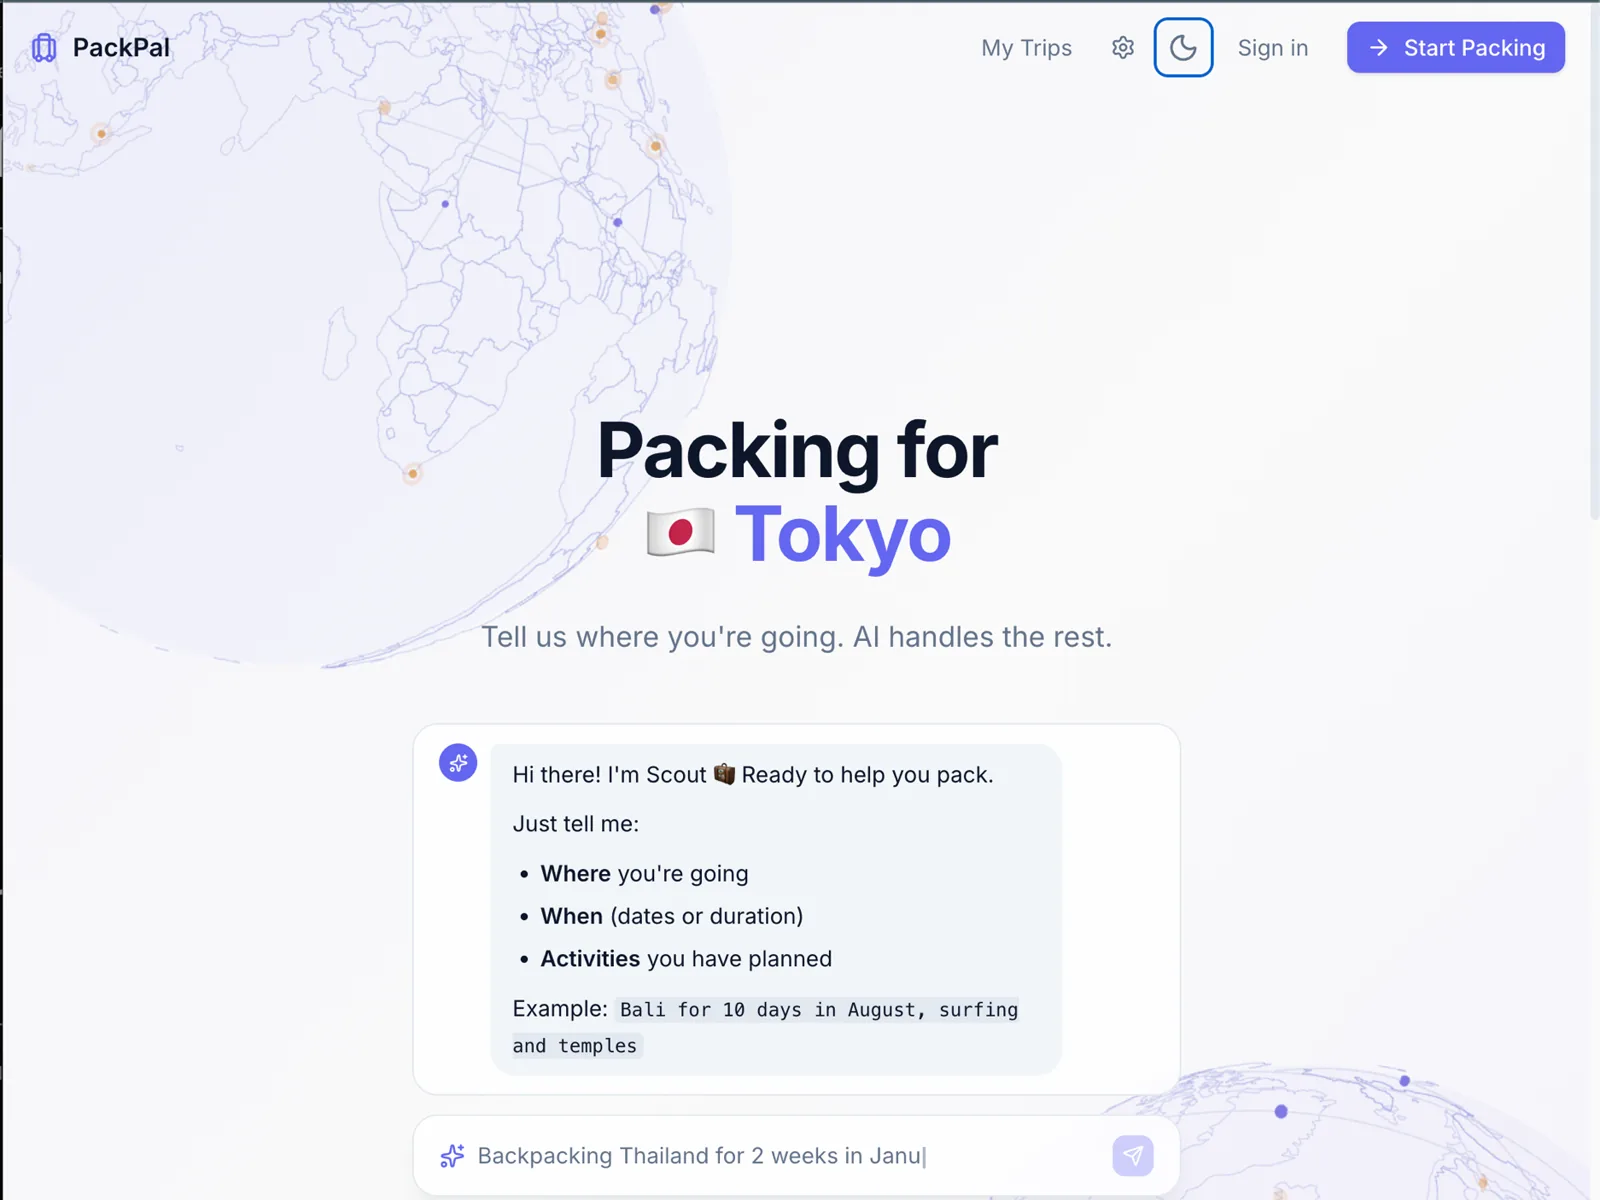
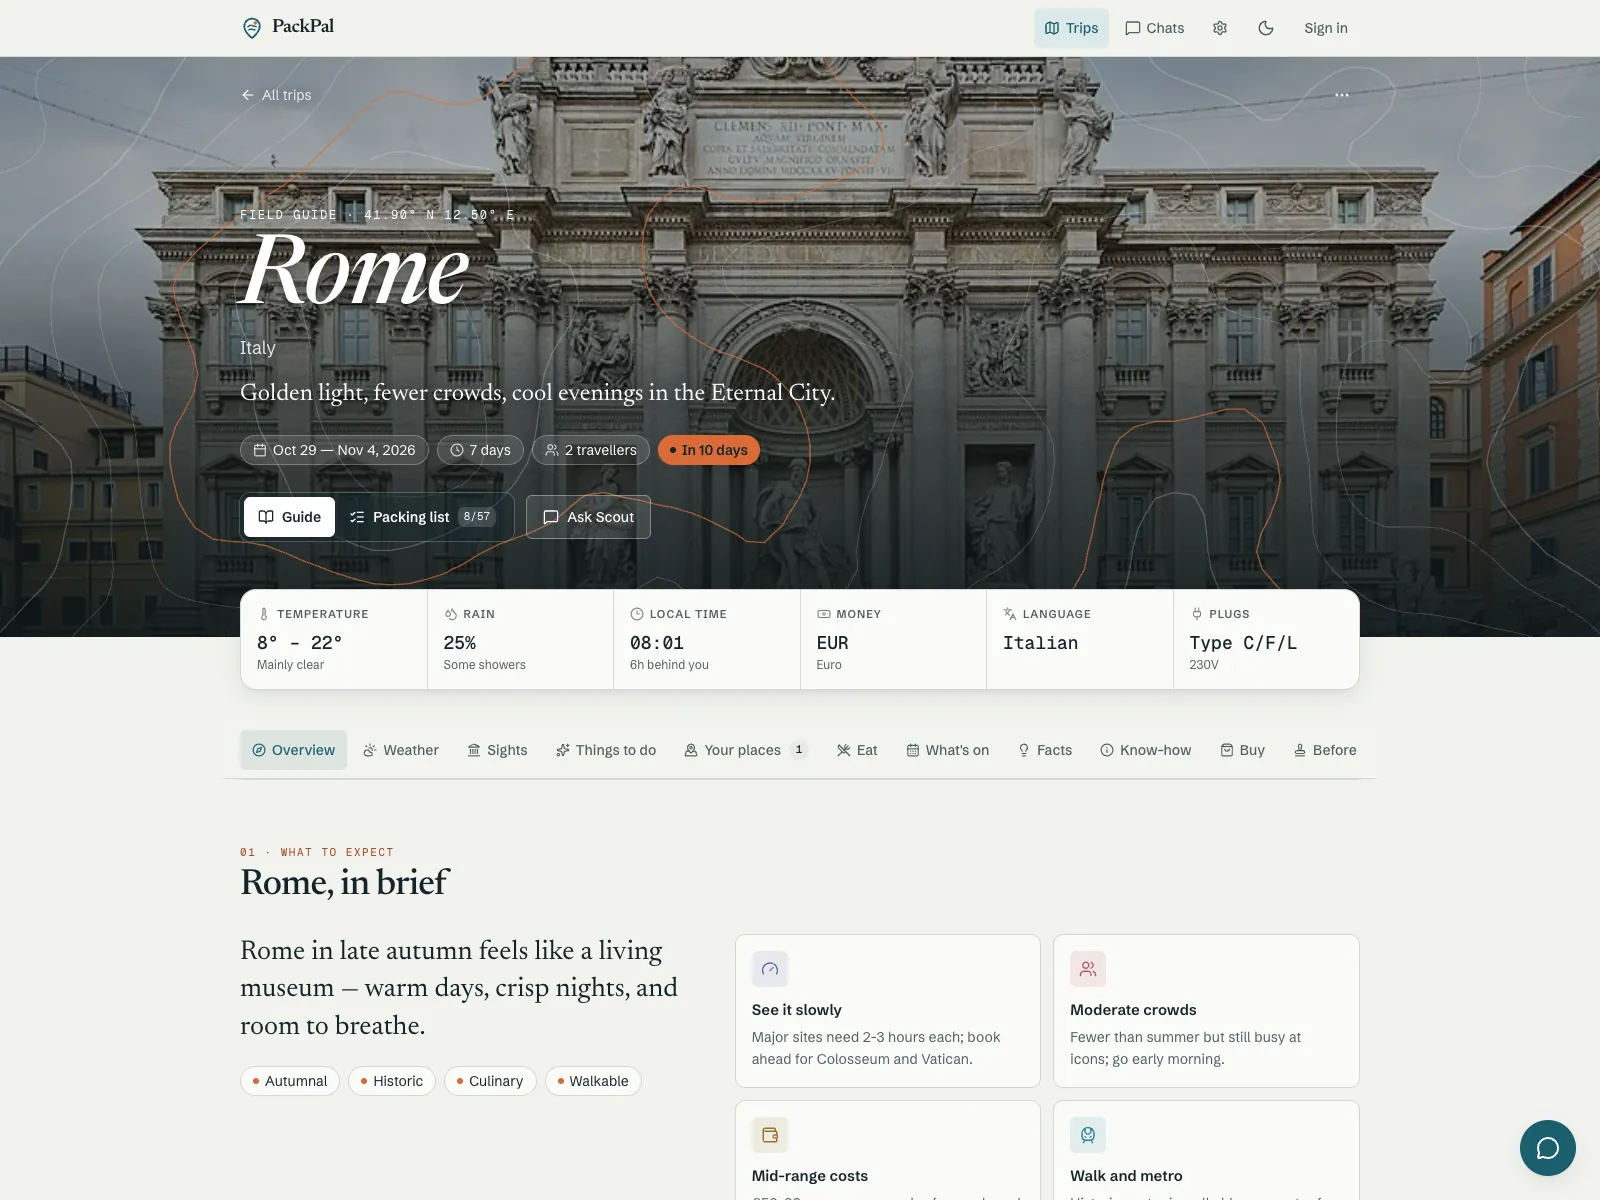
feat: new PackPal cover and a View UI gallery
PackPal is the AI trip-prep app. The cover is now the Rome trip guide hero
from the redesigned app, replacing the pre-redesign landing shot. Gallery:
8 web and 8 mobile screens captured from packpal-scout.vercel.app on a
sample Rome trip (guide hero, weather, sights, worth buying, papers and
safety, packing list, Scout chat, share page).

diff --git a/src/data/portfolioData.ts b/src/data/portfolioData.ts
@@ -182,7 +182,24 @@ export const portfolioData = {
       is_desktop: false,
       learnings: "Blended deterministic data with generated output: weather forecasts and historical climate averages constrain what the model suggests, so recommendations stay grounded instead of hallucinating a season. Also built a conversational assistant that mutates real app state rather than only chatting, plus anonymous trials and public read-only share links on top of Clerk auth.",
       cover_img: "/assets/images/packpal/cover.webp",
-      sample_ui: [],
+      sample_ui: [
+        "/assets/images/packpal/web/1.webp",
+        "/assets/images/packpal/web/2.webp",
+        "/assets/images/packpal/web/3.webp",
+        "/assets/images/packpal/web/4.webp",
+        "/assets/images/packpal/web/5.webp",
+        "/assets/images/packpal/web/6.webp",
+        "/assets/images/packpal/web/7.webp",
+        "/assets/images/packpal/web/8.webp",
+        "/assets/images/packpal/mobile/1.webp",
+        "/assets/images/packpal/mobile/2.webp",
+        "/assets/images/packpal/mobile/3.webp",
+        "/assets/images/packpal/mobile/4.webp",
+        "/assets/images/packpal/mobile/5.webp",
+        "/assets/images/packpal/mobile/6.webp",
+        "/assets/images/packpal/mobile/7.webp",
+        "/assets/images/packpal/mobile/8.webp",
+      ],
       demo_video: "",
       git_url: "",
       demo_app: "",
